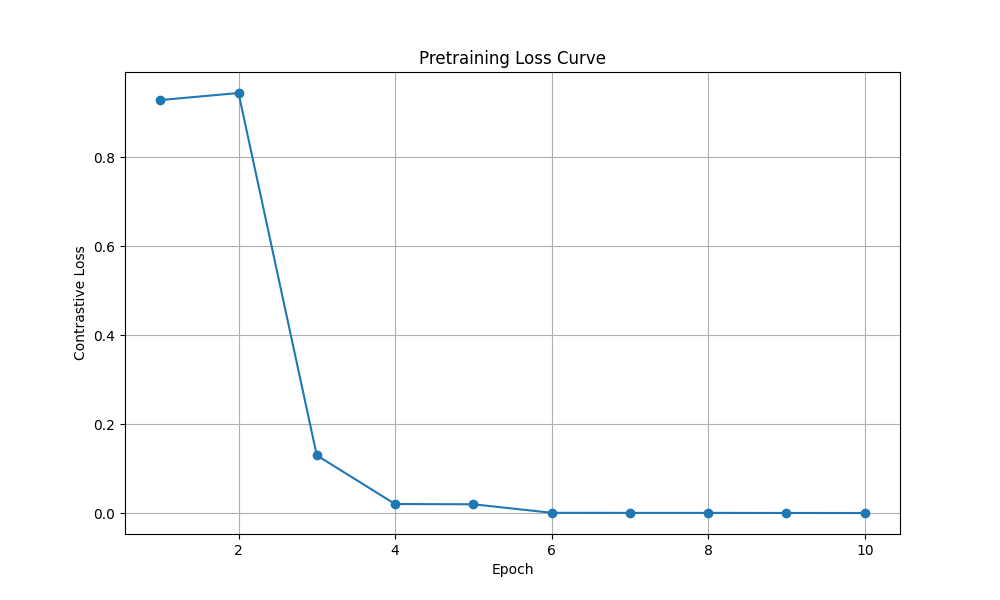
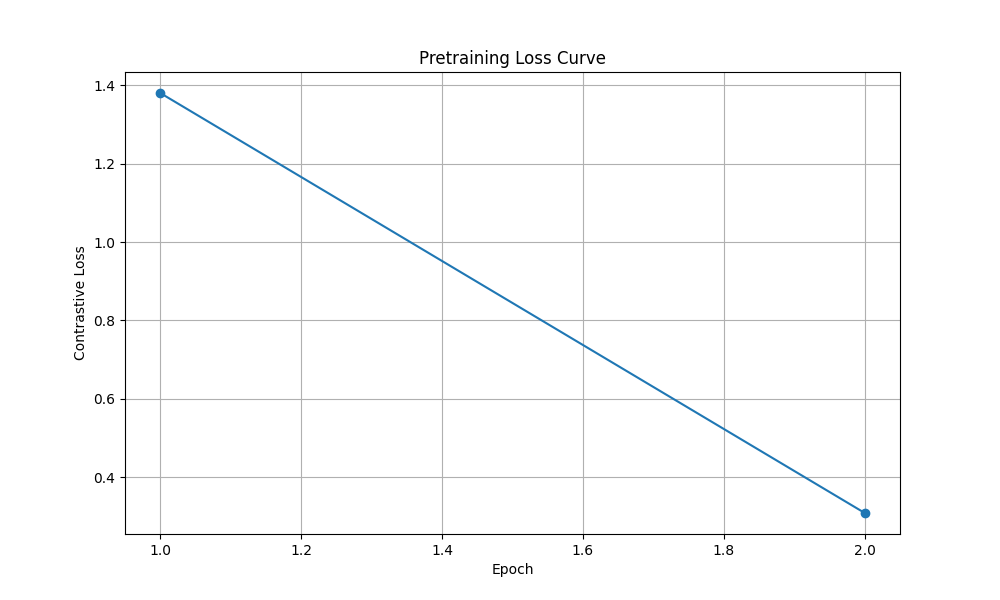
数据集整理

diff --git a/src/modules/uni_encoder.py b/src/modules/uni_encoder.py
@@ -121,6 +121,7 @@ class EncoderModule(nn.Module):
         elif modality == 'text':
             encoder = AutoModelForSeq2SeqLM.from_pretrained(text_model_name).encoder
             input_dim = encoder.config.hidden_size
+            print("使用了文本编码器")
         elif modality == 'geom':
             encoder = SchNetEncoder(
                 load_from_pretrain=geom_model_name,
